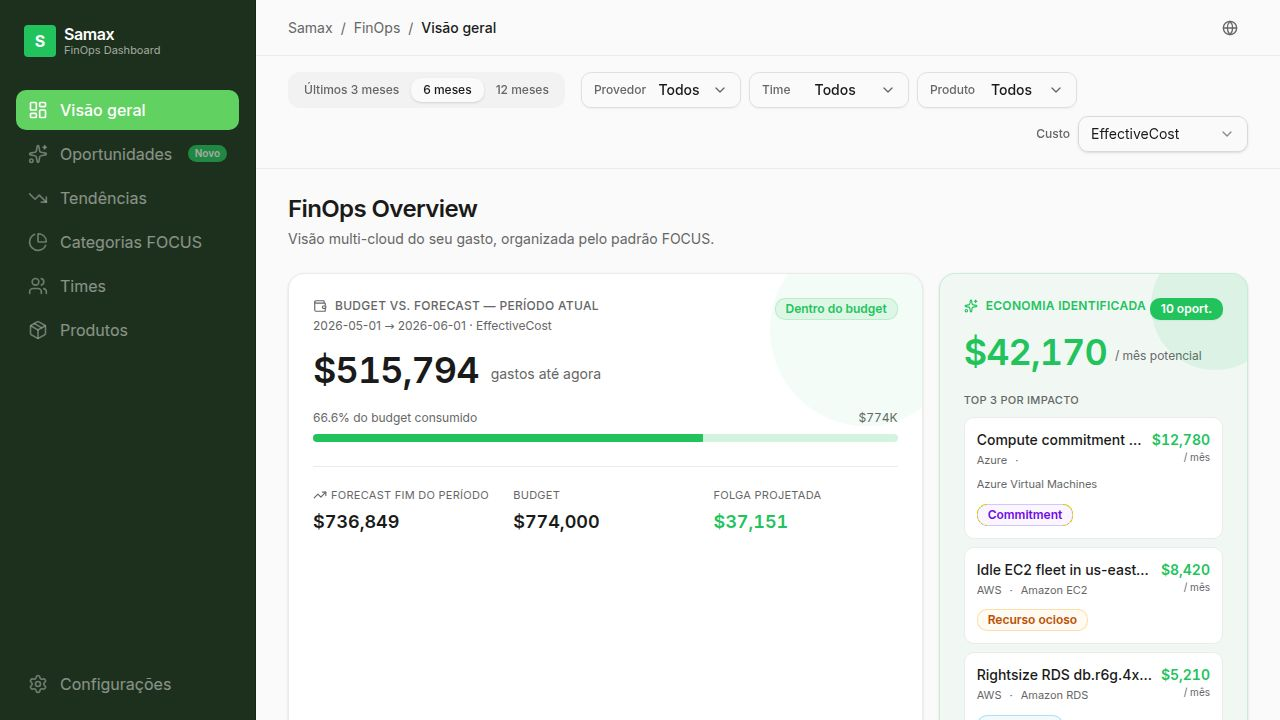
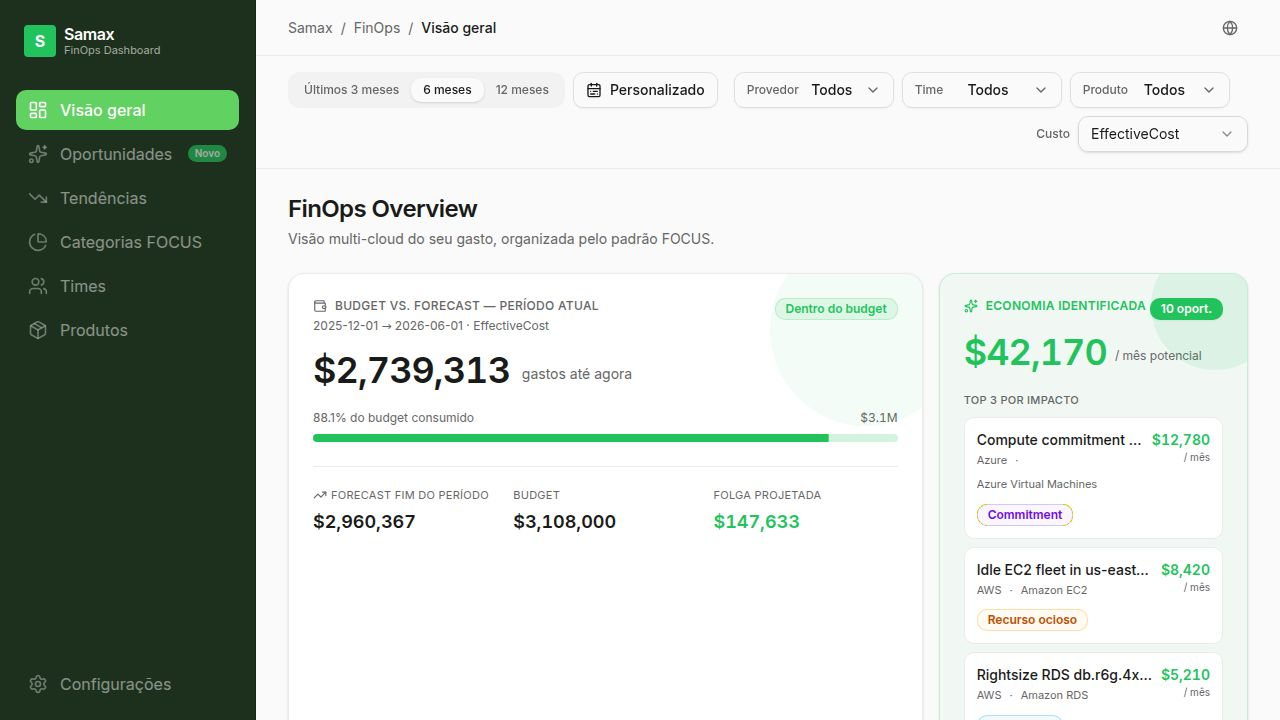
Task #6: Allow custom date ranges in dashboard FilterBar
Original task: extend the FilterBar (which only supported 3/6/12-month
presets) to allow arbitrary startDate/endDate windows, propagate them to
all endpoints via toCommonParams, and make /focus/timeseries accept
arbitrary ranges (not just months=3|6|12).

Changes:
- lib/api-spec/openapi.yaml: /focus/timeseries `months` is now optional
  and the endpoint also accepts StartDateParam/EndDateParam. Regenerated
  api-client-react and api-zod via `pnpm --filter @user/api-spec
  run codegen`.
- artifacts/api-server/src/routes/focus.ts: timeseries handler now
  resolves the window from custom startDate/endDate when both are
  provided, otherwise falls back to the months preset (default 6).
  Previous-range comparison is computed from the resolved window length
  so it stays consistent for custom ranges too.
- artifacts/samax-dashboard/src/lib/filters-store.tsx: DateRange is now
  a discriminated union { mode: "preset", months } | { mode: "custom",
  startDate, endDate }. deriveWindow handles both, toCommonParams
  unchanged at the call sites.
- artifacts/samax-dashboard/src/components/dashboard/FilterBar.tsx:
  added a CustomRangePicker (range Calendar in a Popover with Apply /
  Clear) next to the preset tabs. Selecting a custom range switches the
  filter mode; clicking a preset tab switches back.
- artifacts/samax-dashboard/src/components/dashboard/PastCostsChart.tsx:
  sends `months` in preset mode and `startDate`/`endDate` in custom
[…]

diff --git a/artifacts/samax-dashboard/src/components/dashboard/FilterBar.tsx b/artifacts/samax-dashboard/src/components/dashboard/FilterBar.tsx
@@ -1,5 +1,12 @@
+import { useMemo, useState } from "react";
 import { useGetFocusFilters } from "@workspace/api-client-react";
-import { useFilters, useSyncAnchor, type CostType } from "@/lib/filters-store";
+import {
+  useFilters,
+  useSyncAnchor,
+  type CostType,
+  type DateRange,
+  type PresetMonths,
+} from "@/lib/filters-store";
 import { humanize } from "@/lib/format";
 import { Button } from "@/components/ui/button";
 import { Badge } from "@/components/ui/badge";
@@ -22,8 +29,10 @@ import {
   TabsList,
   TabsTrigger,
 } from "@/components/ui/tabs";
-import { ChevronDown, RotateCcw } from "lucide-react";
+import { Calendar } from "@/components/ui/calendar";
+import { CalendarRange, ChevronDown, RotateCcw } from "lucide-react";
 import { Skeleton } from "@/components/ui/skeleton";
+import type { DateRange as RDPDateRange } from "react-day-picker";
 
 type MultiProps = {
   label: string;
@@ -92,6 +101,116 @@ function MultiSelect({ label, options, value, onChange, formatLabel }: MultiProp
   );
 }
 
+function toIsoDate(d: Date): string {
+  return new Date(Date.UTC(d.getFullYear(), d.getMonth(), d.getDate()))
+    .toISOString()
+    .slice(0, 10);
+}
+
+function fromIsoDate(iso: string): Date | undefined {
+  const [y, m, d] = iso.split("-").map(Number);
+  if (!y || !m || !d) return undefined;
+  return new Date(y, m - 1, d);
+}
+
+function formatHumanDate(iso: string): string {
+  const dt = fromIsoDate(iso);
+  if (!dt) return iso;
+  return dt.toLocaleDateString("pt-BR", {
+    day: "2-digit",
+    month: "short",
+    year: "numeric",
+  });
+}
+
+type CustomRangePickerProps = {
+  range: DateRange;
+  onApply: (next: DateRange) => void;
+};
+
+function CustomRangePicker({ range, onApply }: CustomRangePickerProps) {
+  const [open, setOpen] = useState(false);
+  const initialSelected: RDPDateRange | undefined = useMemo(() => {
+    if (range.mode !== "custom") return undefined;
+    return {
+      from: fromIsoDate(range.startDate),
+      to: fromIsoDate(range.endDate),
+    };
+  }, [range]);
+  const [selected, setSelected] = useState<RDPDateRange | undefined>(
+    initialSelected,
+  );
+
+  const isActive = range.mode === "custom";
+  const summary =
+    range.mode === "custom"
+      ? `${formatHumanDate(range.startDate)} → ${formatHumanDate(range.endDate)}`
+      : "Personalizado";
+
+  return (
+    <Popover
+      open={open}
+      onOpenChange={(next) => {
+        setOpen(next);
+        if (next) setSelected(initialSelected);
+      }}
+    >
+      <PopoverTrigger asChild>
+        <Button
+          variant={isActive ? "default" : "outline"}
+          size="sm"
+          className="h-9 gap-2"
+        >
+          <CalendarRange className="w-3.5 h-3.5" />
+          <span className="text-sm font-medium truncate">{summary}</span>
+        </Button>
+      </PopoverTrigger>
+      <PopoverContent align="start" className="w-auto p-3">
+        <Calendar
+          mode="range"
+          numberOfMonths={2}
+          selected={selected}
+          onSelect={setSelected}
+          captionLayout="dropdown"
+        />
+        <div className="flex items-center justify-between gap-2 pt-3 border-t mt-2">
+          <span className="text-xs text-muted-foreground">
+            {selected?.from && selected?.to
+              ? `${formatHumanDate(toIsoDate(selected.from))} → ${formatHumanDate(toIsoDate(selected.to))}`
+              : "Escolha início e fim"}
+          </span>
+          <div className="flex items-center gap-2">
+            <Button
+              variant="ghost"
+              size="sm"
+              onClick={() => {
+                setSelected(undefined);
+              }}
+            >
+              Limpar
+            </Button>
+            <Button
+              size="sm"
+              disabled={!selected?.from || !selected?.to}
+              onClick={() => {
+                if (!selected?.from || !selected?.to) return;
+                onApply({
+                  mode: "custom",
+                  startDate: toIsoDate(selected.from),
+                  endDate: toIsoDate(selected.to),
+                });
+                setOpen(false);
+              }}
+            >
+              Aplicar
+            </Button>
+          </div>
+        </div>
+      </PopoverContent>
+    </Popover>
+  );
+}
+
 export function FilterBar() {
   const { data, isLoading } = useGetFocusFilters();
   useSyncAnchor(data?.periodEnd);
@@ -112,13 +231,15 @@ export function FilterBar() {
   const activeCount =
     filters.providers.length + filters.teams.length + filters.products.length;
 
+  const presetValue = filters.range.mode === "preset" ? String(filters.range.months) : "";
+
   return (
     <div className="flex items-center gap-2 flex-wrap px-8 py-4 border-b bg-background/80 backdrop-blur sticky top-0 z-10">
-      <div className="flex items-center gap-1 mr-2">
+      <div className="flex items-center gap-2 mr-2">
         <Tabs
-          value={String(filters.range.months)}
+          value={presetValue}
           onValueChange={(v) =>
-            setRange({ ...filters.range, months: Number(v) as 3 | 6 | 12 })
+            setRange({ mode: "preset", months: Number(v) as PresetMonths })
           }
         >
           <TabsList className="h-9">
@@ -133,6 +254,7 @@ export function FilterBar() {
             </TabsTrigger>
           </TabsList>
         </Tabs>
+        <CustomRangePicker range={filters.range} onApply={setRange} />
       </div>
 
       <MultiSelect

diff --git a/artifacts/api-server/src/routes/focus.ts b/artifacts/api-server/src/routes/focus.ts
@@ -157,18 +157,37 @@ router.get("/focus/summary", (req, res) => {
 });
 
 router.get("/focus/timeseries", (req, res) => {
-  const coercedQuery = { ...req.query, months: Number((req.query as Record<string, unknown>)["months"]) };
+  const rawMonths = (req.query as Record<string, unknown>)["months"];
+  const coercedQuery = {
+    ...req.query,
+    ...(rawMonths !== undefined && rawMonths !== ""
+      ? { months: Number(rawMonths) }
+      : {}),
+  };
   const parsed = GetFocusTimeSeriesQueryParams.safeParse(coercedQuery);
   if (!parsed.success) {
     req.log.warn({ issues: parsed.error.issues }, "Invalid focus/timeseries query");
     res.status(400).json({ error: "invalid_query" });
     return;
   }
-  const months = Number(parsed.data.months);
   const ds = getDataset();
-  const end = ds.endDate;
-  const start = new Date(Date.UTC(end.getUTCFullYear(), end.getUTCMonth() - months, 1));
-  const filters = buildFiltersFromQuery(parsed.data, { start, end });
+  const customStart = parseDate(parsed.data.startDate);
+  const customEnd = parseDate(parsed.data.endDate);
+  const hasCustomRange = !!(customStart && customEnd);
+  const months = parsed.data.months ? Number(parsed.data.months) : 6;
+  const fallbackEnd = ds.endDate;
+  const fallbackStart = new Date(
+    Date.UTC(fallbackEnd.getUTCFullYear(), fallbackEnd.getUTCMonth() - months, 1),
+  );
+  const filters = buildFiltersFromQuery(parsed.data, {
+    start: fallbackStart,
+    end: fallbackEnd,
+  });
+  const start = hasCustomRange ? customStart! : fallbackStart;
+  const end = hasCustomRange ? customEnd! : fallbackEnd;
+  // Make sure the loop bounds match the resolved window
+  filters.startDate = start;
+  filters.endDate = end;
 
   const inRange = applyFilters(ds.monthlyRows, filters);
 
@@ -206,7 +225,14 @@ router.get("/focus/timeseries", (req, res) => {
   const totalRange = points.reduce((a, p) => a + p.total, 0);
 
   // Previous range of same length for comparison
-  const prevStart = new Date(Date.UTC(start.getUTCFullYear(), start.getUTCMonth() - months, 1));
+  const windowMonths = Math.max(
+    1,
+    (end.getUTCFullYear() - start.getUTCFullYear()) * 12 +
+      (end.getUTCMonth() - start.getUTCMonth()),
+  );
+  const prevStart = new Date(
+    Date.UTC(start.getUTCFullYear(), start.getUTCMonth() - windowMonths, 1),
+  );
   const prevRows = applyFilters(ds.monthlyRows, {
     ...filters,
     startDate: prevStart,

diff --git a/artifacts/samax-dashboard/src/lib/filters-store.tsx b/artifacts/samax-dashboard/src/lib/filters-store.tsx
@@ -10,10 +10,21 @@ import {
 
 export type CostType = "BilledCost" | "EffectiveCost";
 
-export type DateRange = {
-  /** Convenience preset; drives /focus/timeseries `months` and the derived window. */
-  months: 3 | 6 | 12;
-};
+export type PresetMonths = 3 | 6 | 12;
+
+export type DateRange =
+  | {
+      mode: "preset";
+      /** Convenience preset; drives /focus/timeseries `months` and the derived window. */
+      months: PresetMonths;
+    }
+  | {
+      mode: "custom";
+      /** ISO date (YYYY-MM-DD), inclusive. */
+      startDate: string;
+      /** ISO date (YYYY-MM-DD), exclusive. */
+      endDate: string;
+    };
 
 export type DashboardFilters = {
   range: DateRange;
@@ -37,7 +48,7 @@ type Ctx = {
 };
 
 const DEFAULT: DashboardFilters = {
-  range: { months: 6 },
+  range: { mode: "preset", months: 6 },
   providers: [],
   teams: [],
   products: [],
@@ -93,8 +104,8 @@ export function useSyncAnchor(anchorEnd: string | undefined) {
  * Derive ISO start/end dates from the months preset + anchor, so every
  * widget consumes the exact same time window.
  */
-export function deriveWindow(
-  months: 3 | 6 | 12,
+export function derivePresetWindow(
+  months: PresetMonths,
   anchorEnd: string | undefined,
 ): { startDate?: string; endDate?: string } {
   if (!anchorEnd) return {};
@@ -108,12 +119,23 @@ export function deriveWindow(
   };
 }
 
+/** Resolve the active window (preset or custom) to ISO start/end strings. */
+export function deriveWindow(
+  range: DateRange,
+  anchorEnd: string | undefined,
+): { startDate?: string; endDate?: string } {
+  if (range.mode === "custom") {
+    return { startDate: range.startDate, endDate: range.endDate };
+  }
+  return derivePresetWindow(range.months, anchorEnd);
+}
+
 /** Build the params object that the generated React Query hooks expect for filter-aware endpoints. */
 export function toCommonParams(
   f: DashboardFilters,
   anchorEnd?: string,
 ) {
-  const { startDate, endDate } = deriveWindow(f.range.months, anchorEnd);
+  const { startDate, endDate } = deriveWindow(f.range, anchorEnd);
   return {
     providers: f.providers.length ? f.providers.join(",") : undefined,
     teams: f.teams.length ? f.teams.join(",") : undefined,

diff --git a/artifacts/samax-dashboard/src/components/dashboard/PastCostsChart.tsx b/artifacts/samax-dashboard/src/components/dashboard/PastCostsChart.tsx
@@ -25,16 +25,26 @@ const PROVIDER_COLORS: Record<string, string> = {
 export function PastCostsChart() {
   const { filters, anchorEnd } = useFilters();
   const common = toCommonParams(filters, anchorEnd);
-  // Note: /focus/timeseries derives its window from the `months` preset
-  // (per the OpenAPI contract). startDate/endDate from `common` are used
-  // by the other widgets to keep them in lockstep with the same window.
-  const params = {
-    months: filters.range.months,
-    providers: common.providers,
-    teams: common.teams,
-    products: common.products,
-    costType: common.costType,
-  };
+  // /focus/timeseries accepts either the `months` preset OR a custom
+  // startDate/endDate range. We send only the relevant ones so the server
+  // can pick the right window.
+  const params =
+    filters.range.mode === "preset"
+      ? {
+          months: filters.range.months,
+          providers: common.providers,
+          teams: common.teams,
+          products: common.products,
+          costType: common.costType,
+        }
+      : {
+          startDate: common.startDate,
+          endDate: common.endDate,
+          providers: common.providers,
+          teams: common.teams,
+          products: common.products,
+          costType: common.costType,
+        };
   const { data, isLoading, isError } = useGetFocusTimeSeries(params);
 
   if (isLoading) {
@@ -81,7 +91,10 @@ export function PastCostsChart() {
             Custos históricos
           </div>
           <div className="text-sm text-muted-foreground mt-1">
-            Últimos {filters.range.months} meses · {data.costType}
+            {filters.range.mode === "preset"
+              ? `Últimos ${filters.range.months} meses`
+              : `${filters.range.startDate} → ${filters.range.endDate}`}{" "}
+            · {data.costType}
           </div>
         </div>
 